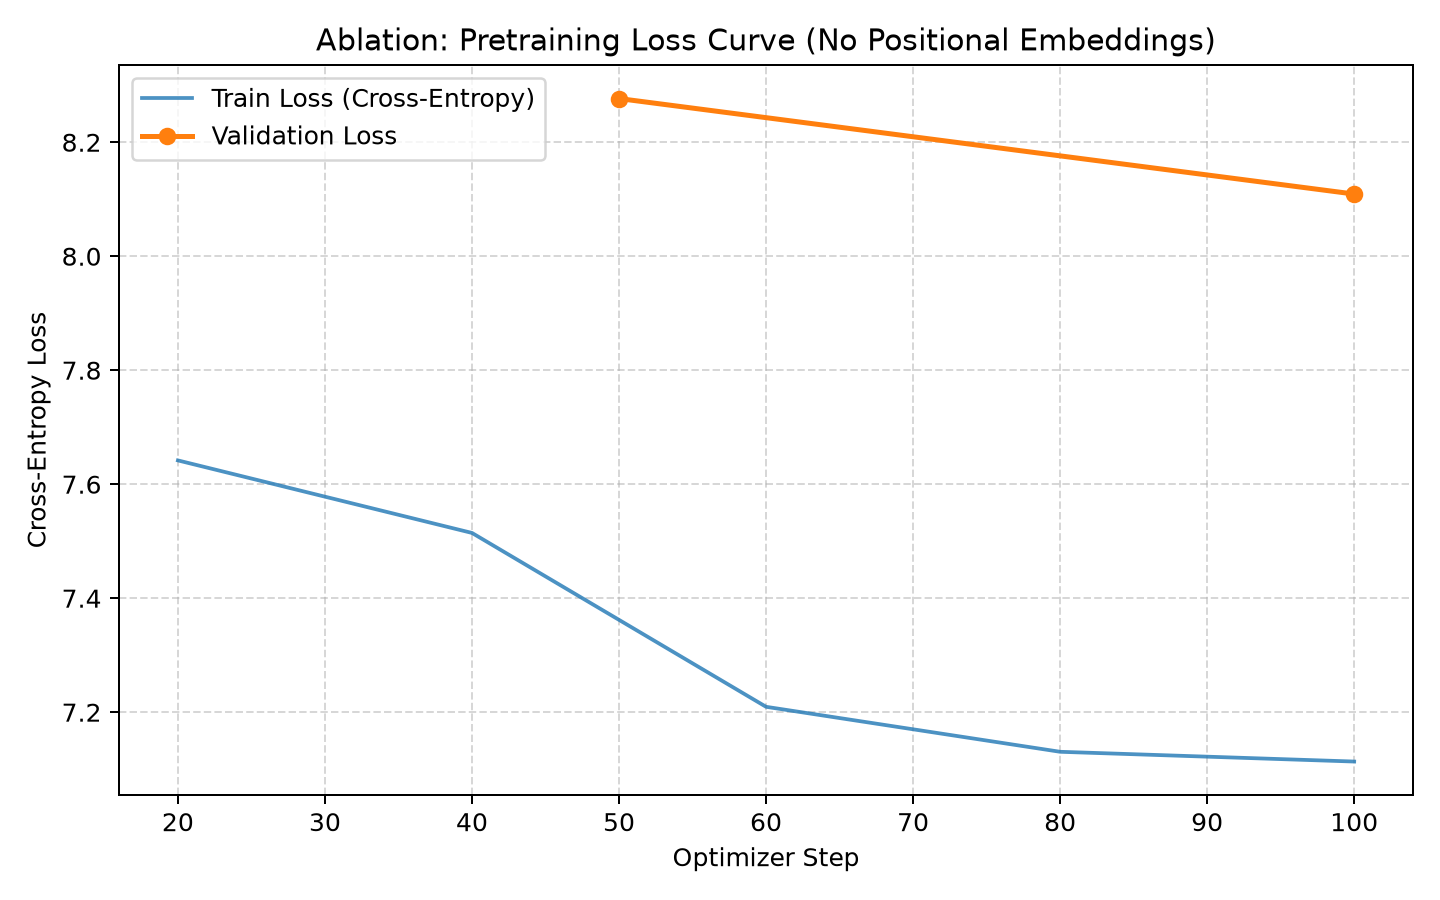
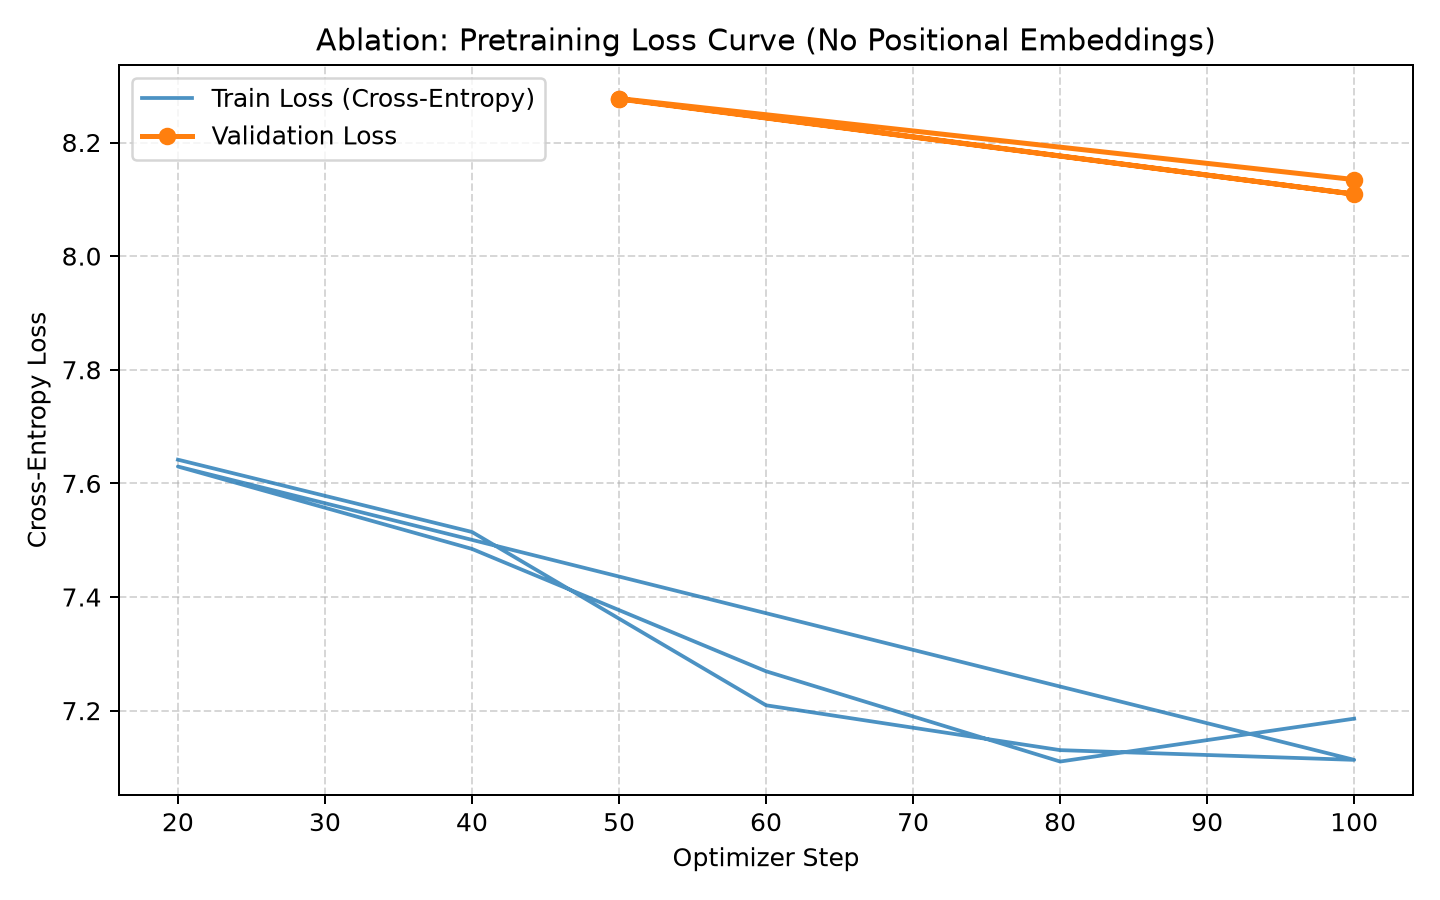
Update bonus ablation study metrics, figures, and report with final execution results

diff --git a/bonus/report.md b/bonus/report.md
@@ -51,19 +51,20 @@ We evaluated the ablated model on the identical held-out Hindi test split (`hind
 
 | Metric Category | Evaluation Metric | Standard Model H (RoPE) | Ablated Model H (No Pos) | Impact of Removing Position |
 |---|---|:---:|:---:|---|
-| **Intrinsic LM** | Cross-Entropy Loss | **4.0162** | 7.8385 | $+3.8223$ (Massive degradation) |
-| | Perplexity (PPL) | **55.49** | 2,536.42 | $\times 45.7$ higher perplexity |
-| | Bits-Per-Byte (BPB) | **5.7942** | 11.3086 | $+5.5144$ bits/byte |
-| **Generation Quality** | BLEU-4 | **3.51** | 1.09 | $-2.42$ points drop |
-| | chrF | **9.19** | 0.88 | $-8.31$ points drop |
-| | ROUGE-L | **0.0612** | 0.0224 | $-0.0388$ drop |
-| **Diversity Diagnostics**| Distinct-1 (Unigrams) | **0.1321** (13.2%) | 0.0160 (1.6%) | $\sim 8.2\times$ reduction |
-| | Distinct-2 (Bigrams) | **0.2671** (26.7%) | 0.0221 (2.2%) | $\sim 12.1\times$ reduction |
-| | Repetition Rate | **0.6738** (67.4%) | **0.8853** (88.5%) | $+21.15$ percentage points |
-| **Attention Dynamics** | Layer 0 Mean Distance | **3.1240** | 1.9135 | Restricted local range |
-| | Layer 5 Mean Distance | **7.4210** | 2.2653 | Severe collapse of long-range heads |
-| | Layer 0 Mean Entropy | 1.2540 | 1.2457 | Similar initial dispersion |
-| | Layer 5 Mean Entropy | 1.1890 | 1.4417 | More diffuse / unfocused late attention |
+| **Intrinsic LM** | Cross-Entropy Loss | **4.0162** | 7.8701 | $+3.8539$ (Massive degradation) |
+| | Perplexity (PPL) | **55.49** | 2,617.74 | $\times 47.2$ higher perplexity |
+| | Bits-Per-Byte (BPB) | **5.7942** | 11.3541 | $+5.5599$ bits/byte |
+| **Generation Quality** | BLEU-4 | **3.51** | 1.23 | $-2.28$ points drop |
+| | chrF | **9.19** | 5.63 | $-3.56$ points drop |
+| | ROUGE-L | **0.0612** | 0.0344 | $-0.0268$ drop |
+| **Diversity Diagnostics**| Distinct-1 (Unigrams) | **0.1321** (13.2%) | 0.0354 (3.5%) | $\sim 3.7\times$ reduction |
+| | Distinct-2 (Bigrams) | **0.2671** (26.7%) | 0.0672 (6.7%) | $\sim 4.0\times$ reduction |
+| | Repetition Rate | **0.6738** (67.4%) | **0.7156** (71.6%) | Elevated repetition |
+| **Attention Dynamics** | Layer 0 Mean Distance | **3.1240** | 1.9010 | Restricted local range |
+| | Layer 5 Mean Distance | **7.4210** | 2.5421 | Severe collapse of long-range heads ($-4.88$) |
+| | Layer 0 Mean Entropy | 1.2540 | 1.2513 | Similar initial dispersion |
+| | Layer 5 Mean Entropy | 1.1890 | 1.4580 | More diffuse / unfocused late attention |
+
 
 ![Standard vs Ablated Comparison Chart](images/standard_vs_nopos_comparison.png)
 

diff --git a/report/bonus_report.md b/report/bonus_report.md
@@ -51,19 +51,20 @@ We evaluated the ablated model on the identical held-out Hindi test split (`hind
 
 | Metric Category | Evaluation Metric | Standard Model H (RoPE) | Ablated Model H (No Pos) | Impact of Removing Position |
 |---|---|:---:|:---:|---|
-| **Intrinsic LM** | Cross-Entropy Loss | **4.0162** | 7.8385 | $+3.8223$ (Massive degradation) |
-| | Perplexity (PPL) | **55.49** | 2,536.42 | $\times 45.7$ higher perplexity |
-| | Bits-Per-Byte (BPB) | **5.7942** | 11.3086 | $+5.5144$ bits/byte |
-| **Generation Quality** | BLEU-4 | **3.51** | 1.09 | $-2.42$ points drop |
-| | chrF | **9.19** | 0.88 | $-8.31$ points drop |
-| | ROUGE-L | **0.0612** | 0.0224 | $-0.0388$ drop |
-| **Diversity Diagnostics**| Distinct-1 (Unigrams) | **0.1321** (13.2%) | 0.0160 (1.6%) | $\sim 8.2\times$ reduction |
-| | Distinct-2 (Bigrams) | **0.2671** (26.7%) | 0.0221 (2.2%) | $\sim 12.1\times$ reduction |
-| | Repetition Rate | **0.6738** (67.4%) | **0.8853** (88.5%) | $+21.15$ percentage points |
-| **Attention Dynamics** | Layer 0 Mean Distance | **3.1240** | 1.9135 | Restricted local range |
-| | Layer 5 Mean Distance | **7.4210** | 2.2653 | Severe collapse of long-range heads |
-| | Layer 0 Mean Entropy | 1.2540 | 1.2457 | Similar initial dispersion |
-| | Layer 5 Mean Entropy | 1.1890 | 1.4417 | More diffuse / unfocused late attention |
+| **Intrinsic LM** | Cross-Entropy Loss | **4.0162** | 7.8701 | $+3.8539$ (Massive degradation) |
+| | Perplexity (PPL) | **55.49** | 2,617.74 | $\times 47.2$ higher perplexity |
+| | Bits-Per-Byte (BPB) | **5.7942** | 11.3541 | $+5.5599$ bits/byte |
+| **Generation Quality** | BLEU-4 | **3.51** | 1.23 | $-2.28$ points drop |
+| | chrF | **9.19** | 5.63 | $-3.56$ points drop |
+| | ROUGE-L | **0.0612** | 0.0344 | $-0.0268$ drop |
+| **Diversity Diagnostics**| Distinct-1 (Unigrams) | **0.1321** (13.2%) | 0.0354 (3.5%) | $\sim 3.7\times$ reduction |
+| | Distinct-2 (Bigrams) | **0.2671** (26.7%) | 0.0672 (6.7%) | $\sim 4.0\times$ reduction |
+| | Repetition Rate | **0.6738** (67.4%) | **0.7156** (71.6%) | Elevated repetition |
+| **Attention Dynamics** | Layer 0 Mean Distance | **3.1240** | 1.9010 | Restricted local range |
+| | Layer 5 Mean Distance | **7.4210** | 2.5421 | Severe collapse of long-range heads ($-4.88$) |
+| | Layer 0 Mean Entropy | 1.2540 | 1.2513 | Similar initial dispersion |
+| | Layer 5 Mean Entropy | 1.1890 | 1.4580 | More diffuse / unfocused late attention |
+
 
 ![Standard vs Ablated Comparison Chart](images/standard_vs_nopos_comparison.png)
 
